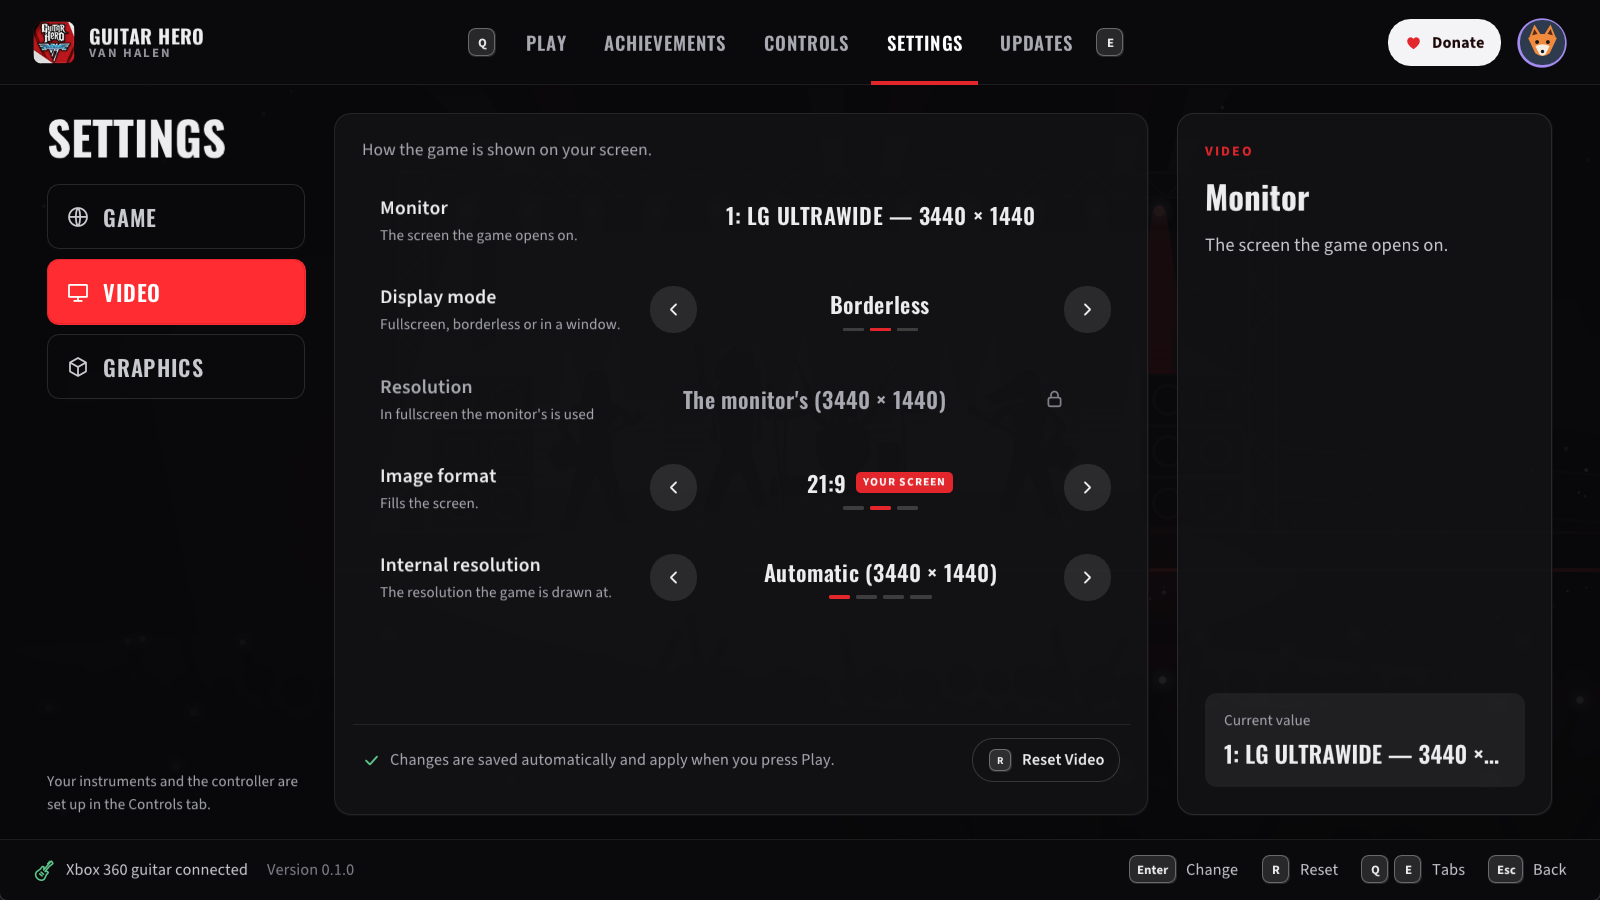
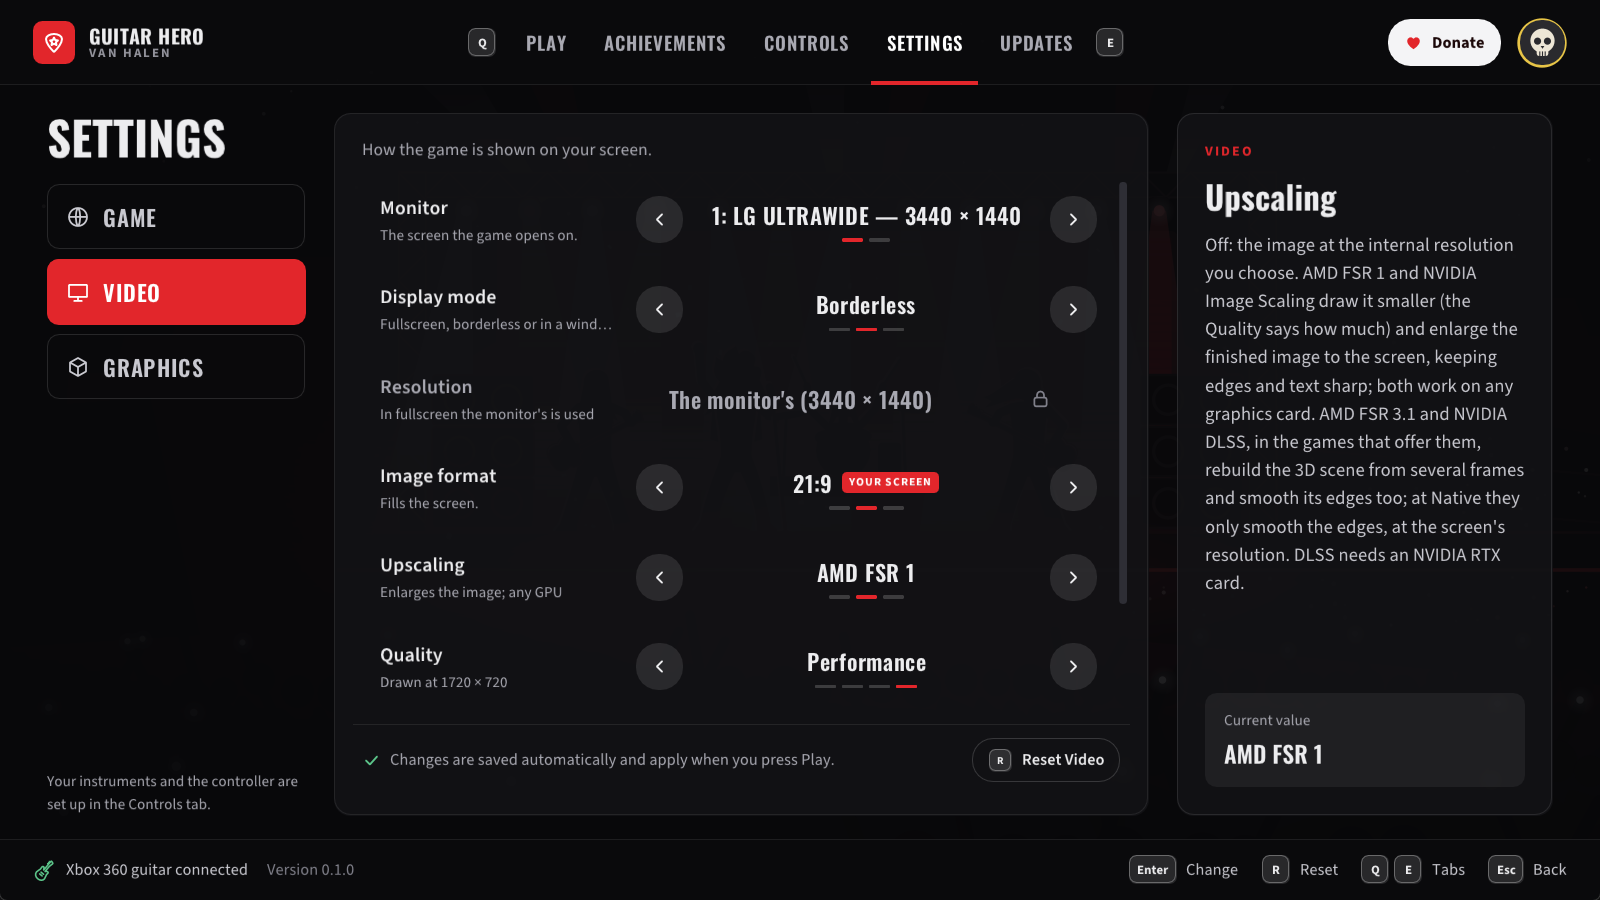
README for 0.1.0: upscaling, V-Sync, low latency audio, In the works
README.md as GH Metallica's: an Upscaling section with this game's main menu
compared at 3440x1440 (docs/images/upscaling-comparison.png) and a new
launcher-video.png, V-Sync and Low latency audio among the features, the whammy
bar's calibration, the launcher's language, In the works. The Beta note says what
was played here: full songs on guitar and bass parts; drums and singing not yet.
GH Metallica's measurements are named as its own.

res/README.txt: the whammy bar's calibration, Low latency audio, the launcher's
language, the same note on what was played.

diff --git a/README.md b/README.md
@@ -18,17 +18,17 @@ Windows: no emulator to set up, sharp graphics, wide screens, high frame rates, 
 > [!IMPORTANT]
 > 💿 **You need your own original copy of the game.** This project does not include any of the game's files, and
 > never will.
-> - To play, you need an Xbox 360 copy of *Guitar Hero: Van Halen* that you own.
+> - To play, you need an Xbox 360 copy of *Guitar Hero: Van Halen* that you own (tested with the USA disc).
 > - You make an image (ISO) of your own disc, and the launcher installs the game from it.
 > - Please do not ask for the game's files, and do not share them or links to them.
 >
 > This project is not affiliated with or endorsed by Microsoft, Activision, the game's developers or Van Halen.
 
 > [!NOTE]
-> 🤘 **Beta.** Guitar Hero: Van Halen runs on Guitar Hero: Metallica's engine, and everything
-> [GHMetalRecomp](https://github.com/ElGuslml/GHMetalRecomp) fixes and adds is here too. Songs play on guitar; drums
-> and singing have not been tested in this game yet. If something goes wrong, please
-> [tell us](#-reporting-a-problem)!
+> 🤘 **Beta.** Songs have been played from start to finish with an Xbox 360 guitar, on guitar and bass parts. Drums
+> and singing have not been tested in this game yet. Guitar Hero: Van Halen runs on Guitar Hero: Metallica's engine,
+> and everything [GHMetalRecomp](https://github.com/ElGuslml/GHMetalRecomp) fixes and adds is here too. If something
+> goes wrong, please [tell us](#-reporting-a-problem)!
 
 > [!WARNING]
 > ⚠ **Not tested yet:** AMD graphics cards, and Wii or PS3 instruments (guitars and drum kits). If you play with any
@@ -68,7 +68,8 @@ From then on, the launcher keeps itself up to date: when a new version comes out
 
 - 🎸 **Your guitar:** an Xbox 360 guitar plays as on the console, whammy bar and Star Power included. Any other
   controller is a guitar too, and the keyboard can be one (experimental: turn it on in the launcher's Keyboard page;
-  frets on D F J K L).
+  frets on D F J K L). Each controller's buttons can be reassigned in the launcher, and a whammy bar that reads
+  pressed at rest (some third-party guitars) can be calibrated there.
 - 🎮 **Auto-strum, GH2 / GH3 style:** on a controller or the keyboard, each fret strums as you press it, so you play
   with the frets alone (a chord is one strum). Turn it on in the launcher's Controls tab; it only acts during a song,
   so the menus work as usual. The whammy bar is the right stick, pushed to either side.
@@ -76,16 +77,49 @@ From then on, the launcher keeps itself up to date: when a new version comes out
   choose which controller sings.
 - 🖥 **Sharp, native graphics:** the game is drawn by your graphics card at your screen's resolution, with smooth
   edges (antialiasing) and sharper textures.
+- 🔍 **Upscaling:** AMD FSR 1 or NVIDIA NIS, on any graphics card, with their quality and sharpness
+  ([see below](#-upscaling-amd-fsr-1-and-nvidia-nis)).
 - ⚡ **High frame rates:** 60 FPS as on the console, or 120, 144, 160, 165 or 240 FPS if your monitor supports it
-  (experimental). The songs keep their speed and stay in sync.
+  (experimental). The songs keep their speed and stay in sync. V-Sync is on by default (no tearing, the game in step
+  with your monitor, without V-Sync's usual delay); leave it on with a G-Sync or FreeSync monitor too.
+- 🔊 **Low latency audio:** optional, in the launcher's Settings: the game takes your audio device in exclusive mode,
+  and the sound comes up to about 55 ms sooner (measured in GHMetalRecomp on a USB audio interface).
 - 📺 **Wide and ultrawide screens:** the stage fills 16:9, 21:9 and wider screens, while the note highway, the HUD and
   the menus keep their shape in the center.
 - 👤 **Profiles:** your saves, achievements and playtime in a profile shared by all the ElGus Recomps launchers.
 - 👥 **Play together:** the controller that presses a button at the title screen plays with your profile; the other
   controllers join as its guests, as on the Xbox 360.
 - 🏆 **Achievements:** a notification when you unlock one, and all 46 in the launcher or with F7 in the game.
-- 🌍 **Languages:** English, French, German, Italian and Spanish.
+- 🌍 **Languages:** English, French, German, Italian and Spanish, in the game and in the launcher.
 - 🔄 **Automatic updates** from this page.
+
+## 🔍 Upscaling: AMD FSR 1 and NVIDIA NIS
+
+For a 4K screen or a slower graphics card, the game can be drawn with fewer lines than your screen has and enlarged
+to fill it. A plain stretch makes the menus' text, the HUD and every edge soft; **AMD FSR 1** and **NVIDIA Image
+Scaling (NIS)** enlarge the image keeping them sharp. Both work on any graphics card (AMD, NVIDIA or Intel).
+
+<p align="center">
+  <img src="docs/images/upscaling-comparison.png" width="100%" alt="The main menu at 3440x1440: native, a plain stretch from 720 lines, AMD FSR 1 and NVIDIA NIS">
+</p>
+<p align="center"><sub>The main menu on a 3440x1440 screen, at its own pixels: drawn at the screen's 1440 lines, then
+from the console's 720 lines with a plain stretch, with AMD FSR 1 and with NVIDIA NIS.</sub></p>
+
+In the launcher's **Settings → Video**:
+- **Upscaling:** Off, AMD FSR 1 or NVIDIA NIS.
+- **Quality:** how many fewer lines the game is drawn with: Ultra Quality (77 % of your screen's), Quality (67 %),
+  Balanced (59 %), Performance (50 %) or Ultra Performance (33 %), never fewer than the console's 720.
+- **Sharpness:** Off, Low, Medium (AMD's and NVIDIA's recommendation) or High. It works without upscaling too (AMD
+  CAS).
+
+<p align="center">
+  <img src="docs/images/launcher-video.png" width="70%" alt="Settings, Video: Upscaling, Quality and Sharpness">
+</p>
+
+They are light: GHMetalRecomp, on the same renderer, measured 0.14 ms (FSR 1) or 0.20 ms (NIS) of the graphics card's
+time per frame, on an RTX 4070 Ti at 3440x1440 from 720 lines
+([details](https://github.com/ElGuslml/GHMetalRecomp/blob/main/docs/scaling.md)). Upscaling is for the NativeXRenderer
+renderer (the default).
 
 ## 🔧 Better than the original
 
@@ -119,8 +153,8 @@ Everything is set up from **GH Van Halen Launcher**, with the mouse, the keyboar
 |---|---|
 | ▶ **Play** | Start the game, and see your settings, achievements and updates at a glance. |
 | 🏆 **Achievements** | All 46 achievements, the ones you have unlocked and when. |
-| 🎮 **Controls** | Your guitars, controllers and keyboard: what each button or key does, and which controller sings. The keyboard as a guitar (experimental). Frets that strum as you press them, on a controller or the keyboard. Your microphone (experimental): device, gain and level. |
-| ⚙ **Settings** | **Game:** the language. **Video:** monitor, fullscreen or window, resolution, image format (fill a wide screen or keep 16:9), upscaling (AMD FSR 1, NVIDIA NIS) and sharpness, V-Sync (on by default: no tearing, without V-Sync's usual delay; leave it on with a G-Sync or FreeSync monitor too). **Graphics:** renderer, frame rate, antialiasing, texture sharpness, the game's screen effects. |
+| 🎮 **Controls** | Your guitars, controllers and keyboard: what each button or key does, and which controller sings. The keyboard as a guitar (experimental). Frets that strum as you press them, on a controller or the keyboard. A whammy bar's calibration. Your microphone (experimental): device, gain and level. |
+| ⚙ **Settings** | **Game:** the game's and the launcher's language, Low latency audio. **Video:** monitor, fullscreen or window, resolution, image format (fill a wide screen or keep 16:9), upscaling (AMD FSR 1, NVIDIA NIS) and sharpness, V-Sync (on by default: no tearing, without V-Sync's usual delay; leave it on with a G-Sync or FreeSync monitor too). **Graphics:** renderer, frame rate, antialiasing, texture sharpness, the game's screen effects. |
 | 🔄 **Updates** | Your version, and new ones when they come out. |
 | 👤 **Profile** | Your picture at the top right: hours played, streaks, your week, your games and your favorite achievements. |
 
@@ -133,7 +167,7 @@ Everything is set up from **GH Van Halen Launcher**, with the mouse, the keyboar
   <img src="docs/images/launcher-video.png" width="49%" alt="Settings: Video">
   <img src="docs/images/launcher-achievements.png" width="49%" alt="Achievements">
 </p>
-<p align="center"><sub>Settings (Video: your screen, window or fullscreen, the image format) and the achievements.</sub></p>
+<p align="center"><sub>Settings (Video: your screen, window or fullscreen, the image format, upscaling) and the achievements.</sub></p>
 
 Your choices are saved as soon as you make them. When you quit the game, the launcher comes back.
 
@@ -159,7 +193,7 @@ graphics instead), and tell us whether it happens there too.
 
 ### Known issues
 
-- 🥁 Drums and singing have not been tested in this game yet.
+- 🥁 Drums and singing have not been tested in this game yet: guitar and bass parts are known to work.
 - 🎤 Singing is experimental: if the pitch line jumps around, lower the microphone's **Gain** in the launcher; if the
   game does not hear you, raise it. While a microphone is chosen, Windows shows that the game is using it.
 - ⌨ Playing with the keyboard is experimental.
@@ -186,6 +220,18 @@ natively on Vulkan.
 - [Building and developing](docs/development.md): requirements, building from source, configuration, how the SDK is
   modified.
 - [`docs/`](docs/README.md): a short note on each problem found and how it was solved.
+
+## 🚧 In the works
+
+New features on the way:
+- 🌐 **Online multiplayer:** play with your friends over the internet.
+- 🥁 **MIDI drum kits:** play the drums on an electronic drum kit connected to your PC.
+- 💿 **Guitar Hero: World Tour DLC:** import your World Tour songs and play them here.
+- 🎵 **Custom songs:** play songs made by the community.
+- 🐧 **Linux and Steam Deck:** a port to play there too.
+- ✨ **And more...**
+
+Follow along on [Discord](https://discord.gg/XQtM5TmNs8) and on [X](https://x.com/ElGuslml).
 
 ## 🤖 A note about AI
 
